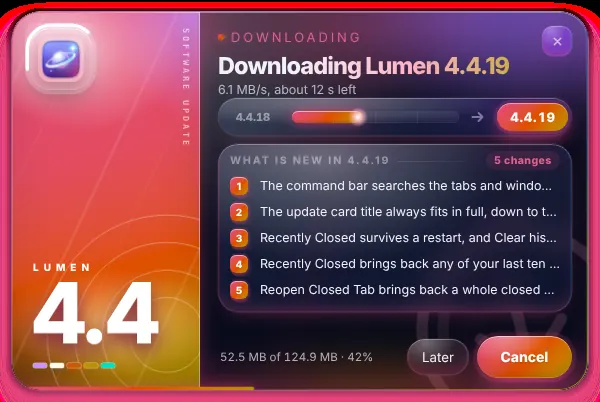
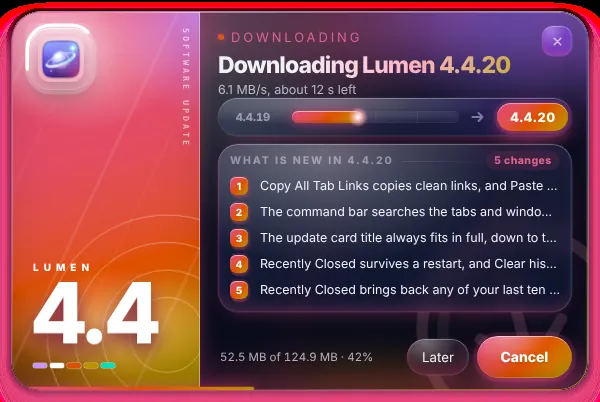
Site for Lumen 4.4.20: every screenshot re-taken from 4.4.20
Claude-Session: https://claude.ai/code/session_016io9pVZ6dJ8VMHbPwqrPds

diff --git a/index.html b/index.html
@@ -368,7 +368,7 @@ footer a:hover{color:#fff}
 <body>
 <header class="nav">
   <div class="wrap bar">
-    <a class="brand" href="#top"><img src="icon.webp" alt="" width="30" height="30">Lumen <small>4.4.19</small></a>
+    <a class="brand" href="#top"><img src="icon.webp" alt="" width="30" height="30">Lumen <small>4.4.20</small></a>
     <nav class="links" aria-label="Sections">
       <a class="h" href="#new">What's new</a>
       <a class="h" href="#speed">Speed</a>
@@ -430,7 +430,7 @@ footer a:hover{color:#fff}
     <div class="head c">
       <span class="eyebrow">What's new in 4.4</span>
       <h2>Watch Claude <span class="gt">work.</span></h2>
-      <p>Lumen 4.4 shows you every move Claude makes in a tab: its own glowing cursor, a label for what it is doing and a soft edge of light until it is done. 4.4.1 starts you off with one-tap tasks that fit the page, and 4.4.2 runs any finished task again with one tap. 4.4.3 makes passkeys tell you exactly what is going on, with your password or Safari one tap away. And from 4.4.4, every update plays its own short film again. 4.4.5 flips between Ask and Do it for me with Option Command A, 4.4.6 saves your Shopify orders to Parcels with the right carrier, 4.4.7 makes every page title fit its banner, 4.4.8 tracks a parcel straight from any carrier link, 4.4.9 takes you to the parcel when there is news, 4.4.10 makes that parcel glow all the way round, 4.4.11 copies clean links, with redirects unwrapped and trackers removed, 4.4.12 copies the page with its title as a clickable link, 4.4.13 makes the update card title fit every version in full, 4.4.14 undoes a bulk tab close in one tap, 4.4.15 brings back a window you closed by mistake, 4.4.16 lists everything you closed in History, Recently Closed, 4.4.17 keeps that list across a restart, and 4.4.19 lets the command bar search it. Claude in Lumen arrived in 4.3, and since 4.2 nothing lags.</p>
+      <p>Lumen 4.4 shows you every move Claude makes in a tab: its own glowing cursor, a label for what it is doing and a soft edge of light until it is done. 4.4.1 starts you off with one-tap tasks that fit the page, and 4.4.2 runs any finished task again with one tap. 4.4.3 makes passkeys tell you exactly what is going on, with your password or Safari one tap away. And from 4.4.4, every update plays its own short film again. 4.4.5 flips between Ask and Do it for me with Option Command A, 4.4.6 saves your Shopify orders to Parcels with the right carrier, 4.4.7 makes every page title fit its banner, 4.4.8 tracks a parcel straight from any carrier link, 4.4.9 takes you to the parcel when there is news, 4.4.10 makes that parcel glow all the way round, 4.4.11 copies clean links, with redirects unwrapped and trackers removed, 4.4.12 copies the page with its title as a clickable link, 4.4.13 makes the update card title fit every version in full, 4.4.14 undoes a bulk tab close in one tap, 4.4.15 brings back a window you closed by mistake, 4.4.16 lists everything you closed in History, Recently Closed, 4.4.17 keeps that list across a restart, 4.4.19 lets the command bar search it, and 4.4.20 copies all your tab links clean, as titled links. Claude in Lumen arrived in 4.3, and since 4.2 nothing lags.</p>
     </div>
     <figure class="glass mid"><img src="shots/parcels.webp" alt="The Parcels page with three parcels on the way: two orders saved from online shops, each with a Shop tag, the store name and its order number, and a progress line from Placed to Delivered" width="1264" height="590"><figcaption>New in 4.4.6: Shop orders in Parcels</figcaption></figure>
     <figure class="glass mid"><img src="shots/parcel-link.webp" alt="The Track a parcel dialog after a UPS tracking link was pasted into the number box: the tracking number is filled in, the carrier is set to UPS, the link sits in the link field and a green note says Got it from the link: UPS" width="1264" height="700"><figcaption>New in 4.4.8: paste a tracking link</figcaption></figure>
@@ -628,8 +628,8 @@ footer a:hover{color:#fff}
         <ul class="tags"><li>Trailer-style intro</li><li>New update card</li><li>New restart screen</li></ul>
       </div>
       <div class="overlap">
-        <figure class="glass back"><img src="shots/intro.webp" alt="The Lumen 4.4.19 intro, fresh from an update" width="1280" height="676"></figure>
-        <figure class="glass front sm"><img src="shots/updatecard.webp" alt="The update card downloading Lumen 4.4.19, with what is new in it" width="600" height="402"></figure>
+        <figure class="glass back"><img src="shots/intro.webp" alt="The Lumen 4.4.20 intro, fresh from an update" width="1280" height="676"></figure>
+        <figure class="glass front sm"><img src="shots/updatecard.webp" alt="The update card downloading Lumen 4.4.20, with what is new in it" width="600" height="402"></figure>
       </div>
     </div>
   </div>
@@ -1080,7 +1080,7 @@ footer a:hover{color:#fff}
 
 <footer>
   <div class="wrap">
-    <a class="brand" href="#top"><img src="icon.webp" alt="" width="24" height="24">Lumen 4.4.19</a>
+    <a class="brand" href="#top"><img src="icon.webp" alt="" width="24" height="24">Lumen 4.4.20</a>
     <nav aria-label="Footer">
       <a href="#new">What's new</a>
       <a href="#surge">Surge</a>
